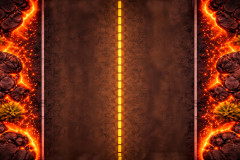
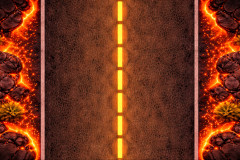
FBrun mini game complete, created new background image

diff --git a/src/mini_games.cpp b/src/mini_games.cpp
@@ -3028,8 +3028,8 @@ void updateInfernalDodger(const InputState &input)
   int roadSpeed = 2 + (difficulty / 4);
   if (roadSpeed > 4)
     roadSpeed = 4;
-  
-  // prevent acceleration during coast/goal/impact
+
+  // prevent acceleration during coast/goal/impact/exit/offroad
   if (s_dodgerPhase != DODGER_PHASE_FIREBALLS)
     roadSpeed = 2;
 
@@ -3051,8 +3051,12 @@ void updateInfernalDodger(const InputState &input)
     (void)ensureDodgerGoalFrames(dodgerGoalFrame1PathForPet(), dodgerGoalFrame2PathForPet());
     (void)ensureDodgerGoreSprite(dodgerGoalGorePathForPet());
 
-    Serial.printf("GOAL preload: f0=%d f1=%d gore=%d w=%d h=%d\n", s_dodgerGoalFrameReady[0] ? 1 : 0,
-                  s_dodgerGoalFrameReady[1] ? 1 : 0, s_dodgerGoreReady ? 1 : 0, s_dodgerGoalW, s_dodgerGoalH);
+    Serial.printf("GOAL preload: f0=%d f1=%d gore=%d w=%d h=%d\n",
+                  s_dodgerGoalFrameReady[0] ? 1 : 0,
+                  s_dodgerGoalFrameReady[1] ? 1 : 0,
+                  s_dodgerGoreReady ? 1 : 0,
+                  s_dodgerGoalW,
+                  s_dodgerGoalH);
   }
 
   if (s_dodgerPhase == DODGER_PHASE_COAST)
@@ -3069,7 +3073,7 @@ void updateInfernalDodger(const InputState &input)
       s_dodgerPx = targetX;
 
     s_dodgerPxF = (float)s_dodgerPx;
-    
+
     if ((now - s_dodgerPhaseStartMs) >= kDodgerCoastMs)
     {
       s_dodgerPhase = DODGER_PHASE_GOAL;
@@ -3138,45 +3142,53 @@ void updateInfernalDodger(const InputState &input)
     s_dodgerMoveDir = 0;
   }
 
-  uint32_t mvDtMs = now - s_dodgerMoveLastMs;
-  s_dodgerMoveLastMs = now;
-  if (mvDtMs > 40)
-    mvDtMs = 40;
+  // Normal horizontal motion should NOT run during offroad crash/hold,
+  // or it will clamp the car back onto the screen.
+  if (s_dodgerPhase != DODGER_PHASE_OFFROAD_CRASH &&
+      s_dodgerPhase != DODGER_PHASE_OFFROAD_HOLD)
+  {
+    uint32_t mvDtMs = now - s_dodgerMoveLastMs;
+    s_dodgerMoveLastMs = now;
+    if (mvDtMs > 40)
+      mvDtMs = 40;
 
-  float pxPerSec = 120.0f + (float)(difficulty * 6);
-  if (pxPerSec > 170.0f)
-    pxPerSec = 170.0f;
+    float pxPerSec = 120.0f + (float)(difficulty * 6);
+    if (pxPerSec > 170.0f)
+      pxPerSec = 170.0f;
 
-  const float dt = (float)mvDtMs / 1000.0f;
-  s_dodgerPxF += (float)s_dodgerMoveDir * pxPerSec * dt;
+    const float dt = (float)mvDtMs / 1000.0f;
+    s_dodgerPxF += (float)s_dodgerMoveDir * pxPerSec * dt;
 
-  const float marginF = 6.0f;
-  if (s_dodgerPxF < marginF)
-    s_dodgerPxF = marginF;
-  if (s_dodgerPxF > (float)gW - marginF)
-    s_dodgerPxF = (float)gW - marginF;
+    const float marginF = 6.0f;
+    if (s_dodgerPxF < marginF)
+      s_dodgerPxF = marginF;
+    if (s_dodgerPxF > (float)gW - marginF)
+      s_dodgerPxF = (float)gW - marginF;
 
-  s_dodgerPx = (int16_t)(s_dodgerPxF + 0.5f);
+    s_dodgerPx = (int16_t)(s_dodgerPxF + 0.5f);
+  }
+  else
+  {
+    s_dodgerMoveLastMs = now;
+  }
 
   const int roadLeft = 54;
   const int roadRight = gW - 54;
 
   if (s_dodgerPhase == DODGER_PHASE_FIREBALLS)
   {
-    if (s_dodgerPx < roadLeft)
+    if (s_dodgerPx < roadLeft || s_dodgerPx > roadRight)
     {
+      s_dodgerCrashDir = (s_dodgerPx < roadLeft) ? -1 : +1;
+
+      if (s_dodgerMoveDir < 0)
+        s_dodgerCrashDir = -1;
+      else if (s_dodgerMoveDir > 0)
+        s_dodgerCrashDir = +1;
+
       s_dodgerPhase = DODGER_PHASE_OFFROAD_CRASH;
       s_dodgerPhaseStartMs = now;
-      s_dodgerCrashDir = -1;
-      s_dodgerMoveDir = -1;
-      soundError();
-    }
-    else if (s_dodgerPx > roadRight)
-    {
-      s_dodgerPhase = DODGER_PHASE_OFFROAD_CRASH;
-      s_dodgerPhaseStartMs = now;
-      s_dodgerCrashDir = +1;
-      s_dodgerMoveDir = +1;
+      s_dodgerMoveDir = 0;
       soundError();
     }
   }
@@ -3223,23 +3235,6 @@ void updateInfernalDodger(const InputState &input)
           soundError();
           return;
         }
-      }
-
-      const int roadLeft = 54;
-      const int roadRight = gW - 54;
-
-      if (s_dodgerPx < roadLeft || s_dodgerPx > roadRight)
-      {
-        s_dodgerCrashDir = (s_dodgerMoveDir < 0) ? -1 : +1;
-
-        if (s_dodgerPx < roadLeft && s_dodgerMoveDir == 0)
-          s_dodgerCrashDir = -1;
-        if (s_dodgerPx > roadRight && s_dodgerMoveDir == 0)
-          s_dodgerCrashDir = +1;
-
-        s_dodgerPhase = DODGER_PHASE_OFFROAD_CRASH;
-        s_dodgerPhaseStartMs = now;
-        s_dodgerMoveDir = 0;
       }
     }
     else if (s_dodgerPhase == DODGER_PHASE_GOAL)
@@ -3304,7 +3299,6 @@ void updateInfernalDodger(const InputState &input)
         g_app.gameOver = true;
         requestUIRedraw();
         s_resultShown = true;
-        soundError();
         return;
       }
     }
@@ -3329,12 +3323,7 @@ void drawInfernalDodger()
   const bool haveFireballs = ensureDodgerFireballSprites(bgPath);
   const bool haveCar = ensureDodgerCarSprite(carPath);
 
-  const char *goalFrame0 = dodgerGoalFrame1PathForPet();
-  const char *goalFrame1 = dodgerGoalFrame2PathForPet();
-  const char *gorePath = dodgerGoalGorePathForPet();
-
   const bool haveGoalFrames = s_dodgerGoalFrameReady[0] && s_dodgerGoalFrameReady[1];
-
   const bool haveGore = s_dodgerGoreReady;
 
   bool drewBg = false;
@@ -3402,16 +3391,23 @@ void drawInfernalDodger()
     }
   }
 
-  Serial.printf("GOAL draw: active=%d phase=%d ready0=%d ready1=%d x=%d y=%d w=%d h=%d\n", s_dodgerGoalActive ? 1 : 0,
-                (int)s_dodgerPhase, s_dodgerGoalFrameReady[0] ? 1 : 0, s_dodgerGoalFrameReady[1] ? 1 : 0, s_dodgerGoalX,
-                s_dodgerGoalY, s_dodgerGoalW, s_dodgerGoalH);
+  Serial.printf("GOAL draw: active=%d phase=%d ready0=%d ready1=%d x=%d y=%d w=%d h=%d\n",
+                s_dodgerGoalActive ? 1 : 0,
+                (int)s_dodgerPhase,
+                s_dodgerGoalFrameReady[0] ? 1 : 0,
+                s_dodgerGoalFrameReady[1] ? 1 : 0,
+                s_dodgerGoalX,
+                s_dodgerGoalY,
+                s_dodgerGoalW,
+                s_dodgerGoalH);
 
   if (s_dodgerGoalActive)
   {
     const int drawX = s_dodgerGoalX - (s_dodgerGoalW / 2);
     const int drawY = s_dodgerGoalY - (s_dodgerGoalH / 2);
 
-    if (s_dodgerPhase == DODGER_PHASE_IMPACT || s_dodgerPhase == DODGER_PHASE_CAR_EXIT ||
+    if (s_dodgerPhase == DODGER_PHASE_IMPACT ||
+        s_dodgerPhase == DODGER_PHASE_CAR_EXIT ||
         s_dodgerPhase == DODGER_PHASE_HOLD)
     {
       if (haveGore)
@@ -3428,7 +3424,9 @@ void drawInfernalDodger()
     }
   }
 
-  if (s_dodgerPhase != DODGER_PHASE_HOLD && s_dodgerPhase != DODGER_PHASE_OFFROAD_HOLD)  {
+  if (s_dodgerPhase != DODGER_PHASE_HOLD &&
+      s_dodgerPhase != DODGER_PHASE_OFFROAD_HOLD)
+  {
     if (haveCar && s_dodgerCarReady)
     {
       const int drawX = s_dodgerPx - (s_dodgerCarW / 2);
